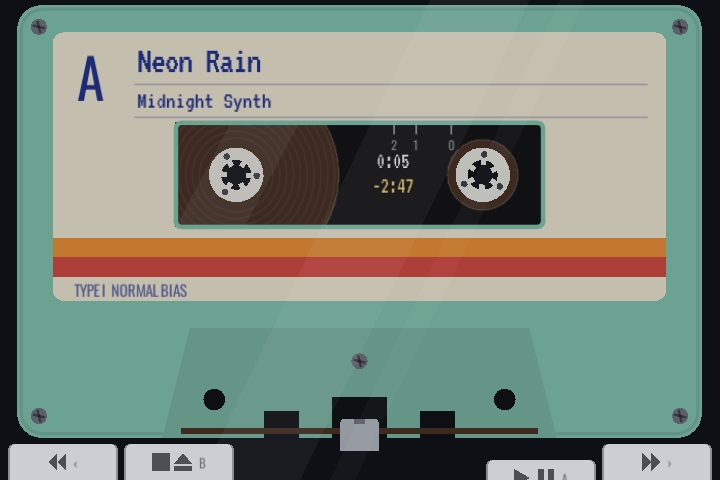
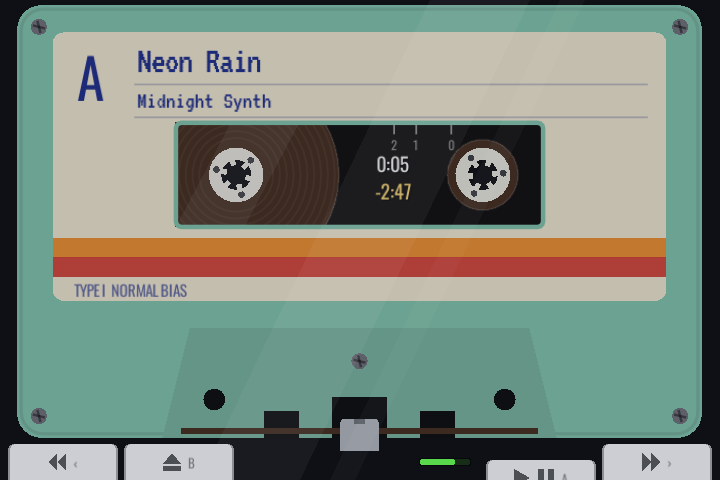
Keep playing while browsing, EJECT between screens, screen always on
- L2 (EJECT) or B goes from the player to the library and back; the tape
  keeps playing. The key shows only the eject sign, with B as its twin on
  both screens. With nothing in the player (only right after start), L2/B
  go up a folder in the library as before; D-pad left always does.
- A green play sign in the box's left margin marks the tape in the player,
  and inside its album the song playing. PLAY on that tape goes back to the
  player without starting over; PLAY on another tape swaps it at once.
- Library box is charcoal instead of brown.
- Played / remaining times between the reels use the label font (Oswald).
- Holding FF / REW adds a fourth step: 120x after 8 s.
- Pocket mode is gone: the screen stays on.

Claude-Session: https://claude.ai/code/session_013h42Ln1xJVHQVHQ8PeAZ2n

diff --git a/README.md b/README.md
@@ -4,14 +4,15 @@ A music player for [muOS](https://muos.dev) handhelds that shows a cassette
 inside a closed portable player. The handheld's own screen bezel acts as the
 player body, so the cassette fills the screen. The transport keys sit on the bottom
 edge, right above the shoulder buttons. The layout is made for the Anbernic RG34XXSP
-(720×480); other screens get black bars. There are no on-screen icons or readouts. You
+(720×480); other screens get black bars. There are no on-screen icons or readouts,
+apart from a small battery line between the keys. You
 can tell what the player is doing the way you would with a real one: from the
 keys that are pressed down, the turning reels, how much tape is on each reel
 and the play head against the tape.
 
 | The box of tapes | Inside an album |
 | --- | --- |
-| ![Library: albums as a stack of cassettes, the selected one slid out](docs/library.png) | ![An album's songs as tapes in the album's style](docs/album.png) |
+| ![Library: albums as a stack of cassettes, the selected one slid out](docs/library.png) | ![An album's songs as tapes, a green play sign beside the one playing](docs/album.png) |
 | **Playing Midnight Synth** | **Playing a song from Coastal Drive** |
 | ![A mint cassette with orange and red stripes playing in the player](docs/deck.png) | ![A chrome cassette with a felt-marker label playing in the player](docs/deck-2.png) |
 
@@ -29,6 +30,10 @@ are named `RetroCassette`, so updates install over the earlier version.
   (white) and remaining (amber) on the side, which helps most with long mixes.
 - **The library is a box of tapes.** Each album folder, and each song inside
   one, is a cassette lying in a stack with its spine facing you.
+- **The music keeps playing while you browse.** EJECT (L2) goes from the
+  player to the box and back. A green play sign beside a tape marks the one in
+  the player, and inside its album the song playing. PLAY on that tape goes
+  back to the player without starting over; PLAY on another one swaps the tape.
 - **Every tape has its own look**, chosen from its folder's name: shell colour,
   label paper, stripes, the handwriting or typeface of the title and the ink.
   The cassette in the player looks exactly like its spine in the box.
@@ -47,8 +52,10 @@ are named `RetroCassette`, so updates install over the earlier version.
   so even hour-long mixes don't have to be loaded to measure them. A song too
   big for the free memory is skipped like an unreadable file instead of
   crashing the app.
-- **Pocket mode:** after 30 seconds without a button press the screen goes
-  dark; music keeps playing. Any button wakes it (that press does nothing else).
+- **Battery:** a short line between EJECT and PLAY on both screens. Its
+  length is the charge; it is green, then yellow below 45% and red below 20%.
+  While charging, a bright segment runs along it.
+- **The screen stays on** while the app runs.
 
 MP3, OGG, FLAC and WAV are supported.
 
@@ -60,11 +67,11 @@ order they sit on the RG34XXSP hinge (L1 L2 on the left, R2 R1 on the right):
 | Button | Key | Stopped | Playing |
 | --- | --- | --- | --- |
 | L1 | REW | Rewinds until STOP or the start of the tape | Tap: back to the start of this song (or the previous one in its first 3 s). Hold: review, the tape runs back muted, faster the longer you hold |
-| L2 | STOP/EJECT | Opens the lid and goes back to the library | Stops; the tape stays where it is |
+| L2 | EJECT | Goes to the library; the tape stays in | Goes to the library; the music keeps playing |
 | R2 | PLAY/PAUSE | Plays | Pauses; press again to carry on |
-| R1 | FF | Fast-forwards until STOP or the end of the tape | Tap: wind to the next song (music sensor). Hold: cue, the tape plays fast and high-pitched; after 2 s it winds at 10x, after 5 s at 30x (muted) |
+| R1 | FF | Fast-forwards until STOP or the end of the tape | Tap: wind to the next song (music sensor). Hold: cue, the tape plays fast and high-pitched; after 2 s it winds at 10x, after 5 s at 30x and after 8 s at 120x (muted) |
 
-A works as PLAY and B as STOP; the keys show these twins in small print. D-pad left / right jumps straight to the
+A works as PLAY and B as EJECT; the keys show these twins in small print. D-pad left / right jumps straight to the
 previous / next song (with a short whir of the reels), while L1 / R1 stay
 real REW / FF.
 
@@ -75,8 +82,9 @@ printed on it:
 | --- | --- | --- |
 | D-pad up/down | | Previous / next tape |
 | L1 / R1 | | Among albums: jump to the previous / next letter. Among songs: a pile of tapes back / forward |
-| R2 (PLAY) | A | Put the tape in and play: an album from its first song, a song from that song |
-| L2 (STOP) | B, D-pad left | Back up a folder |
+| R2 (PLAY) | A | Put the tape in and play: an album from its first song, a song from that song. On the tape already in the player: back to the player |
+| L2 (EJECT) | B | Back to the player while a tape is in it; otherwise back up a folder |
+| D-pad left | | Back up a folder |
 | D-pad right | | Open an album to see its songs |
 
 Select + Start or the Menu button quits.
@@ -149,8 +157,9 @@ RetroCassette/            what gets installed on the device
     lib/style.lua         a tape's look from a hash of its name
     lib/tapeart.lua       drawing shared by spines and the cassette
     lib/fonts.lua         label fonts (assets/fonts, free licences)
-    lib/frame.lua         frame pacing and pocket mode
+    lib/frame.lua         frame pacing
     lib/keys.lua          the transport keys, shared by player and library
+    lib/battery.lua       the battery line (charge from sysfs)
     lib/loader.lua        reads songs on a background thread, 1 MB at a time
     lib/memory.lua        checks a song fits in the free memory
     lib/probe.lua         song lengths from file headers

diff --git a/CLAUDE.md b/CLAUDE.md
@@ -5,7 +5,8 @@ See README.md for features, controls and layout.
 
 Design rule: the deck screen shows only a physical player. State is shown by
 parts of the player (latched keys, reels, tape packs, head, the
-cassette label), never by icons, text readouts or overlays. A tape's look comes
+cassette label), never by icons, text readouts or overlays. The one exception
+is the battery line in the key row (`lib/battery.lua`), the same on both screens. A tape's look comes
 from `lib/style.lua` (hash of its folder name) and must match between its
 library spine and the cassette in the player.
 
